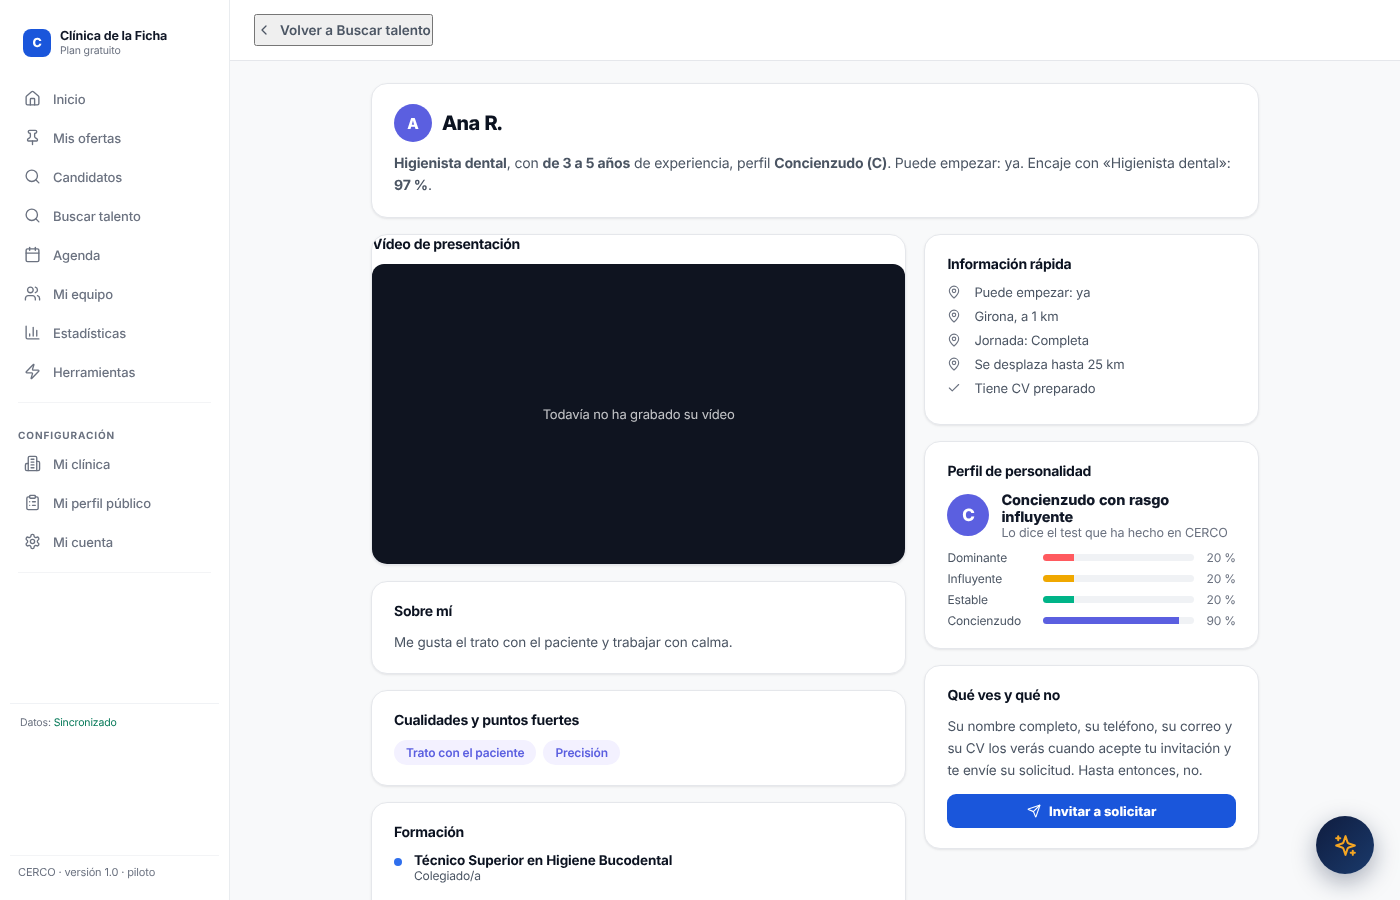
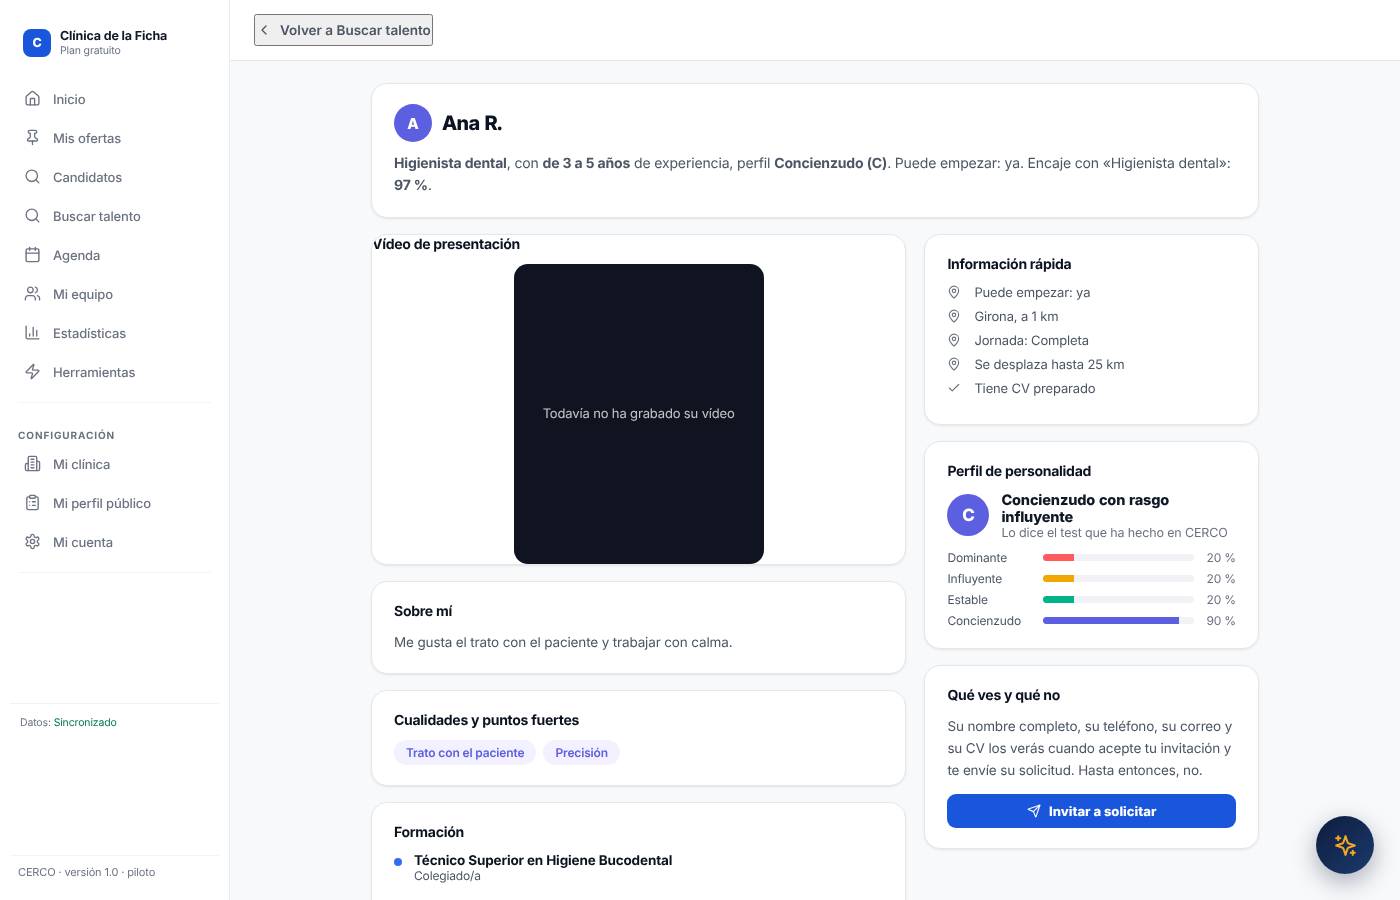
Buscar talento: el vídeo de la ficha, como en Candidatos
El vídeo ocupaba casi toda la pantalla, se cargaba solo y salía con
los controles del navegador. Ahora es una portada oscura con el botón
de reproducir, en vertical y estrecha, con toda la información al
lado: el mismo diseño que la ficha de Candidatos. El vídeo se carga
solo cuando se pulsa.

Y si el perfil no se puede publicar para las búsquedas, ahora se avisa
a la persona. Antes fallaba en silencio: creía que su elección había
quedado guardada y en realidad no aparecía (o seguía apareciendo) en
las búsquedas de las clínicas.

Changed region(s): [[0.3993, 0.28, 0.645, 0.6533], [0.2457, 0.28, 0.3686, 0.6533]]

diff --git a/public/clinica/17-buscar-talento.js b/public/clinica/17-buscar-talento.js
@@ -19,7 +19,8 @@
     check:'<path d="M20 6 9 17l-5-5"/>',
     pin:'<path d="M20 10c0 4.993-5.539 10.193-7.399 11.799a1 1 0 0 1-1.202 0C9.539 20.193 4 14.993 4 10a8 8 0 0 1 16 0"/><circle cx="12" cy="10" r="3"/>',
     video:'<path d="m16 13 5.223 3.482a.5.5 0 0 0 .777-.416V7.87a.5.5 0 0 0-.752-.432L16 10.5"/><rect x="2" y="6" width="14" height="12" rx="2"/>',
-    left:'<path d="m15 18-6-6 6-6"/>'
+    left:'<path d="m15 18-6-6 6-6"/>',
+    play:'<polygon points="6 3 20 12 6 21 6 3"/>'
   };
   function sv(k, c, s){ return _svg(IC[k] || '', c, s); }
   var COL = {D:'#FF5A5F', I:'#F0A800', S:'#00B488', C:'#5B5FE0'};
@@ -390,7 +391,11 @@
       + '</div>'
       + '<div class="grid"><div id="ft-izq">'
       +   '<div class="card video-card"><h3>Vídeo de presentación</h3>'
-      +     '<div class="video-frame'+(tieneVideo(t) ? '' : ' sin')+'" id="ft-video">'+(tieneVideo(t) ? '<div class="bt-v-cargando">Cargando el vídeo…</div>' : 'Todavía no ha grabado su vídeo')+'</div>'
+      +     '<div class="ft-vid-caja"><div class="video-frame'+(tieneVideo(t) ? '' : ' sin')+'" id="ft-video">'
+      +       (tieneVideo(t)
+            ? '<button type="button" class="ft-play" onclick="btVerVideo()"><span class="ft-play-c">'+sv('play','white',22)+'</span>Ver su vídeo de presentación</button>'
+            : 'Todavía no ha grabado su vídeo')
+      +     '</div></div>'
       +   '</div>'
       +   (visible && t.resumen ? '<div class="card"><h3>Sobre mí</h3><p style="white-space:pre-line;">'+e(t.resumen)+'</p></div>' : '')
       +   ((t.fuertes || []).length ? '<div class="card"><h3>Cualidades y puntos fuertes</h3><div class="skills-row">'+t.fuertes.map(function(f){ return '<span class="skill-pill">'+e(f)+'</span>'; }).join('')+'</div></div>' : '')
@@ -417,18 +422,19 @@
       +   '</div>'
       + '</div></div></div>';
 
-    if(tieneVideo(t)){
-      var caja = document.getElementById('ft-video'), turno = F.uid;
-      traerVideo(t).then(function(u){
-        if(turno !== F.uid) return;
-        caja.classList.remove('sin');
-        caja.innerHTML = '<video src="'+e(u)+'" controls playsinline style="width:100%;height:100%;object-fit:contain;display:block;"></video>';
-      }).catch(function(){
-        if(turno !== F.uid) return;
-        caja.classList.add('sin'); caja.textContent = 'No hemos podido cargar su vídeo.';
-      });
-    }
   }
+  window.btVerVideo = function(){
+    var x = lista().filter(function(y){ return y.t.uid === F.uid; })[0]; if(!x) return;
+    var caja = document.getElementById('ft-video'), turno = F.uid; if(!caja) return;
+    caja.innerHTML = '<div class="bt-v-cargando">Cargando el vídeo…</div>';
+    traerVideo(x.t).then(function(u){
+      if(turno !== F.uid) return;
+      caja.innerHTML = '<video src="'+e(u)+'" controls autoplay playsinline></video>';
+    }).catch(function(){
+      if(turno !== F.uid) return;
+      caja.innerHTML = '<div class="bt-v-cargando">No hemos podido cargar su vídeo.</div>';
+    });
+  };
 
   /* ---------- montar la pantalla y el menú ---------- */
   function montar(){
@@ -500,8 +506,13 @@
     + '#screen-talento .grid{display:grid;gap:16px;grid-template-columns:minmax(0,1.6fr) minmax(0,1fr);}'
     + '#screen-talento .wrap{max-width:1000px;margin:0 auto;padding:18px 20px 60px;}'
     + '#screen-talento .topbar{padding:14px 20px;}'
-    + '#screen-talento .video-frame{min-height:320px;background:#0F1420;display:flex;align-items:center;justify-content:center;border-radius:12px;overflow:hidden;}'
-    + '#screen-talento .video-frame.sin{color:rgba(255,255,255,.75);font-size:13px;}'
+    + '#screen-talento .ft-vid-caja{display:flex;justify-content:center;}'
+    + '#screen-talento .video-frame{width:min(100%,250px);aspect-ratio:9/16;background:linear-gradient(135deg,#0F1C3F,#1A3A6B);display:flex;align-items:center;justify-content:center;border-radius:14px;overflow:hidden;}'
+    + '#screen-talento .video-frame.sin{color:rgba(255,255,255,.75);font-size:13px;text-align:center;padding:0 18px;line-height:1.5;}'
+    + '#screen-talento .video-frame video{width:100%;height:100%;object-fit:contain;display:block;background:#000;}'
+    + '.ft-play{background:none;border:none;color:white;cursor:pointer;display:flex;flex-direction:column;align-items:center;gap:10px;font-size:13.5px;font-weight:700;font-family:inherit;padding:0 16px;text-align:center;line-height:1.4;}'
+    + '.ft-play-c{width:58px;height:58px;border-radius:50%;background:rgba(255,255,255,.16);display:flex;align-items:center;justify-content:center;}'
+    + '.ft-play:focus-visible{outline:2px solid white;outline-offset:3px;}'
     + '@media(max-width:760px){#screen-talento .grid{grid-template-columns:minmax(0,1fr);}}'
     + '.bt-av{width:46px;height:46px;border-radius:50%;object-fit:cover;flex-shrink:0;display:block;}'
     + '.bt-av-l{display:flex;align-items:center;justify-content:center;color:white;font-weight:800;font-size:17px;}'

diff --git a/public/profesional/02-lideres-y-efecto-rebote.js b/public/profesional/02-lideres-y-efecto-rebote.js
@@ -105,7 +105,7 @@ function publicarTalento(p){
   var modo = window.CERCO_modoElegido ? CERCO_modoElegido(p) : null;
   if(!modo) return;                                   // todavía no ha elegido
   var ref = Nube.db().collection('talento').doc(Nube.uid);
-  if(modo === 'solicito' || !p.disc || !p.profesion){ ref.delete().catch(function(){}); return; }
+  if(modo === 'solicito' || !p.disc || !p.profesion){ ref.delete().catch(falloAlPublicar); return; }
   var g = geoLimpio(p.geo);
   var d = {
     modo:modo, modoFecha:String(p.modoFecha || '').slice(0,40),
@@ -119,7 +119,7 @@ function publicarTalento(p){
     titulacion: String(p.titulacion || '').slice(0,120),
     ocultar:(p.ocultar||[]).slice(0,50), actualizado:new Date().toISOString()
   };
-  if(modo !== 'visible'){ ref.set(d).catch(function(){}); return; }
+  if(modo !== 'visible'){ ref.set(d).catch(falloAlPublicar); return; }
   var nom = String(p.nombre || '').trim().split(/\s+/);
   d.nombre = (nom[0] || '').slice(0,40);
   d.inicial = nom.length > 1 ? nom[1].charAt(0).toUpperCase() : '';
@@ -132,7 +132,13 @@ function publicarTalento(p){
   });
   fotoPequena(p.foto).then(function(mini){ if(mini) d.fotoMini = mini; })
     .catch(function(){})
-    .then(function(){ ref.set(d).catch(function(){}); });
+    .then(function(){ ref.set(d).catch(falloAlPublicar); });
+}
+/* Si esto falla, la persona cree que ha quedado guardado y en realidad no
+   aparece (o sigue apareciendo) en las búsquedas de las clínicas. Callarse sería
+   lo peor que podemos hacer aquí, así que se dice. */
+function falloAlPublicar(){
+  try{ toast('Tu elección se ha guardado, pero no hemos podido actualizar cómo te ven las clínicas. Vuelve a entrar en Mi perfil dentro de un rato.'); }catch(e){}
 }
 /* Copia pequeña de la foto (96 px) para la lista de «Buscar talento»: así la
    clínica no descarga 200 fotos grandes al abrir la pantalla. */

diff --git a/pruebas/e2e/70-buscar-talento.spec.js b/pruebas/e2e/70-buscar-talento.spec.js
@@ -233,6 +233,29 @@ test('Verlos en vídeo: uno detrás de otro, y se puede invitar sin salir', asyn
   await c.keyboard.press('Escape');
   await expect(visor).toHaveCount(0);
 
+  // 6. En su ficha, el vídeo no se carga solo: sale la portada con el botón,
+  //    en vertical y estrecho, y se reproduce al pulsarlo (igual que en Candidatos)
+  await c.locator('#buscar-box .bt-card', { hasText: 'Ana R.' }).click();
+  const f = c.locator('#screen-talento');
+  await expect(f).toBeVisible();
+  await expect(f.locator('video')).toHaveCount(0);
+  const portada = f.locator('.ft-play');
+  await expect(portada).toContainText('Ver su vídeo de presentación');
+  // la caja es más alta que ancha (vídeo vertical) y no ocupa toda la columna
+  const caja = await f.locator('#ft-video').boundingBox();
+  expect(caja.height).toBeGreaterThan(caja.width);
+  expect(caja.width).toBeLessThanOrEqual(260);
+  await capturar(c, 'clinica-76-ficha-con-video');
+
+  await portada.click();
+  const vid = f.locator('video');
+  await expect(vid).toHaveCount(1, { timeout: 30_000 });
+  expect(await vid.evaluate((el) => new Promise((ok) => {
+    if (el.readyState >= 1) return ok(el.duration);
+    el.onloadedmetadata = () => ok(el.duration);
+    setTimeout(() => ok(0), 15000);
+  }))).toBeGreaterThan(0);
+
   expect(c.erroresPagina).toEqual([]);
   await v.context.close();
 });

diff --git a/PROGRESO.md b/PROGRESO.md
@@ -432,8 +432,16 @@ Objetivo: una clínica puede buscar profesionales aunque nadie haya solicitado s
 - [x] El contador de «Verlos en vídeo» contaba solo a quien tuviera publicado en cuántos
       trozos está su vídeo. Los perfiles guardados antes de que eso existiera quedaban fuera.
       Ahora cuenta a quien dice tener vídeo, y los trozos se cuentan leyendo el primero.
+- [x] El vídeo de la ficha ocupaba casi toda la pantalla y se cargaba solo. Ahora es una
+      portada oscura con el botón de reproducir, en vertical y estrecha (250 px), con toda
+      la información al lado: igual que la ficha de Candidatos. El vídeo se carga al pulsar.
+- [x] Si no se puede publicar el perfil para las búsquedas, **se avisa a la persona**.
+      Antes fallaba en silencio: creía que había quedado guardado y no era verdad.
 - **Reglas de Firebase: vuelven a cambiar** (campos `titulacion`, `resumen` y `trabajos`).
-  Asish tendrá que volver a publicarlas al publicar esto.
+  Asish tendrá que volver a publicarlas al publicar esto. **Comprobado** pasando las
+  pruebas de reglas contra las que están publicadas ahora: rechazan esos tres campos,
+  así que hasta que se publiquen las nuevas, un profesional no puede publicar su
+  formación, su presentación ni sus trabajos (y por eso no salen en la ficha).
 
 ## Pendiente para más adelante
 - **Reglas de seguridad: puntos mejorables** (previsto en la Fase 3):
